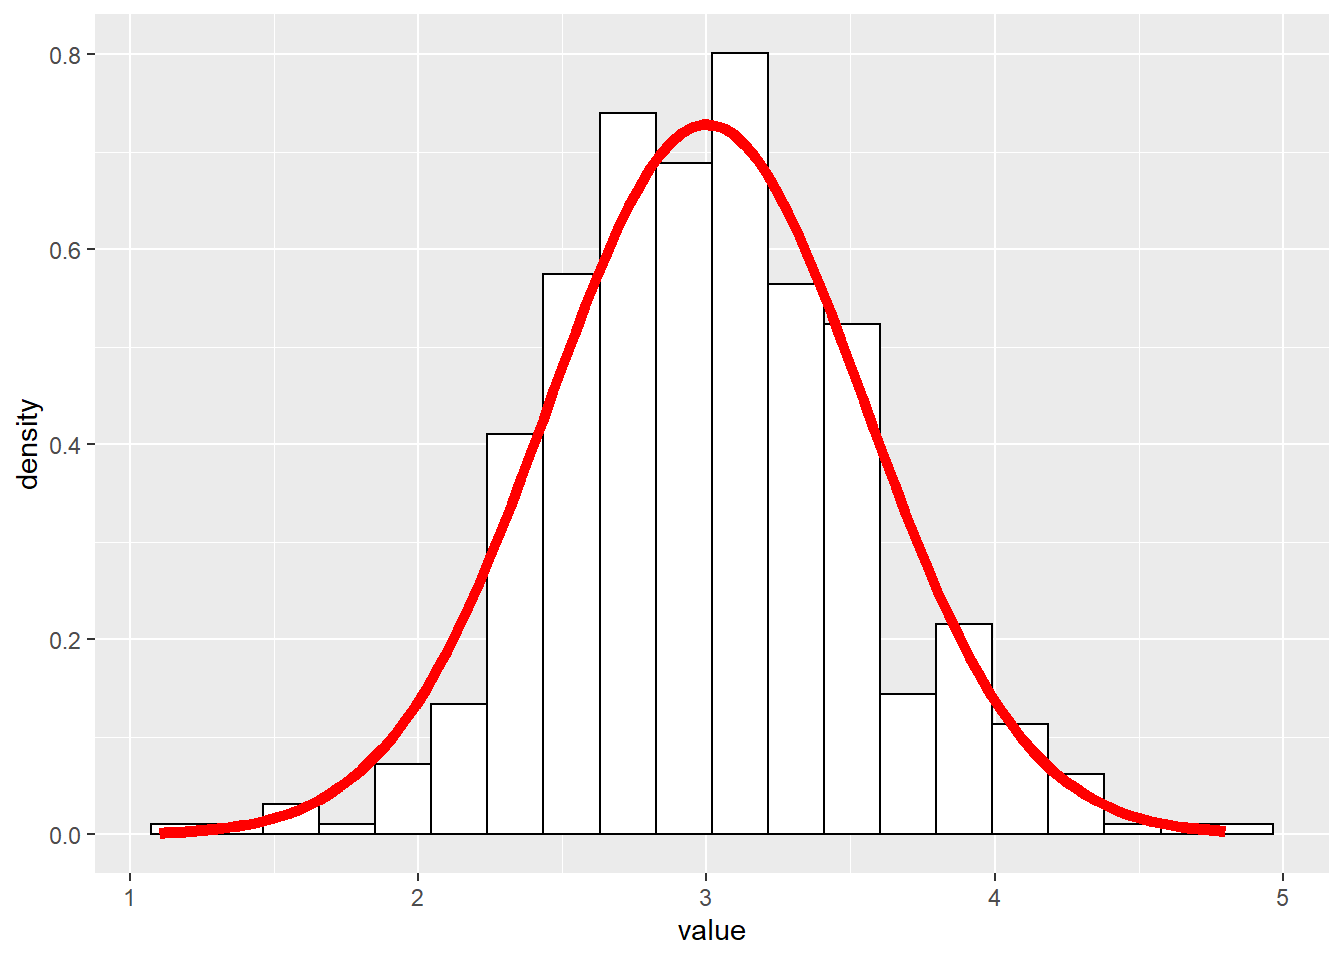
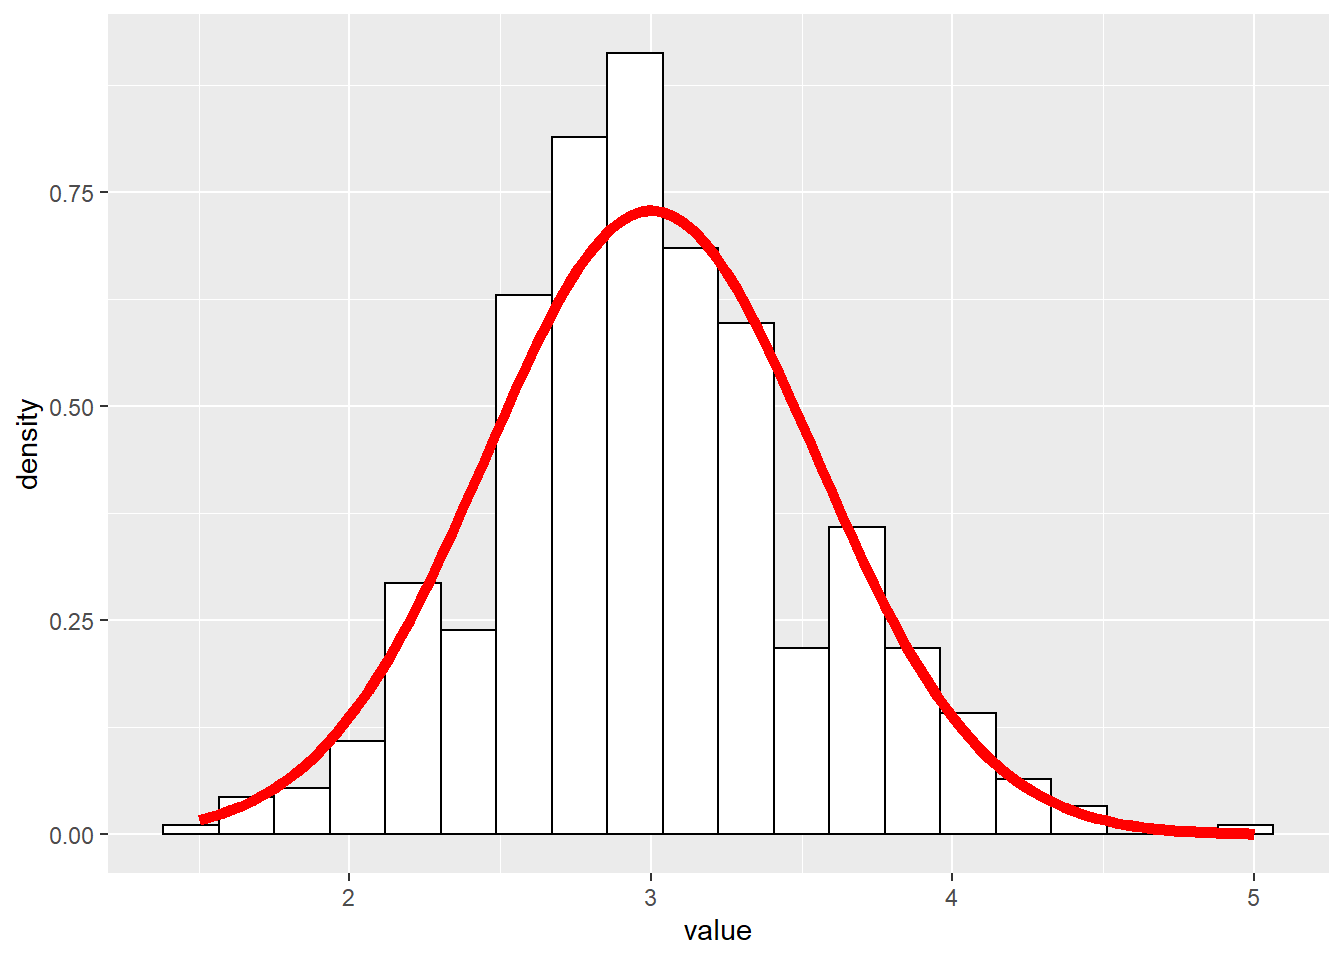
Finish CLT Blog

diff --git a/content/post/2020-02-05-central-limit-theorem.html b/content/post/2020-02-05-central-limit-theorem.html
@@ -21,16 +21,16 @@ p &lt;- ggplot(dat, aes(x = k, y = prob))
 p + geom_segment(aes(xend = k, yend = 0),size=3) + ylab(&#39;p(k)&#39;)</code></pre>
 <p><img src="/post/2020-02-05-central-limit-theorem_files/figure-html/unnamed-chunk-1-1.png" width="672" /></p>
 <p>Here we can see that <span class="math inline">\(X\)</span> is clearly not Normally distributed, in fact no matter what we do to <span class="math inline">\(X\)</span> it will NEVER be Normally distributed, it will be Poisson distributed with <span class="math inline">\(\lambda=3\)</span>. What can change, though, is the distribution of <span class="math inline">\(\bar{X}\)</span>. This is probably confusing because we never actually observe more than one <span class="math inline">\(\bar{X}\)</span>, so there’s not really a way to check this in a real experiment. However, we can do the following:</p>
-<p>1.) Simulate <span class="math inline">\(X_1,X_2,\cdots,X_{10}\)</span> from a Poisson (3) distribution. Note that here <span class="math inline">\(n=10\)</span>.
-2.) Calculate <span class="math inline">\(\bar{X}\)</span> from those 10 values.
-3.) Repeat this 500 times and plot a histogram to get a feel for the distribution of <span class="math inline">\(\bar{X}\)</span>
-4.) Overlay a Normal distribution on top of the histogram of <span class="math inline">\(\bar{X}\)</span> values.</p>
+<p>1.) Simulate <span class="math inline">\(X_1,X_2,\cdots,X_{10}\)</span> from a Poisson (3) distribution. Note that here <span class="math inline">\(n=10\)</span>.</p>
+<p>2.) Calculate <span class="math inline">\(\bar{X}\)</span> from those 10 values.</p>
+<p>3.) Repeat this 500 times and plot a histogram to get a feel for the distribution of <span class="math inline">\(\bar{X}\)</span></p>
+<p>4.) Overlay a Normal distribution on top of the histogram of <span class="math inline">\(\bar{X}\)</span> values.</p>
 <pre class="r"><code>M&lt;-500
 n=10
 x.bars&lt;-data.frame(trial=seq(1,M),value=NA)
 for(j in 1:M){
   data&lt;-rpois(n,3)
-  x.bars[j,]=mean(data)
+  x.bars[j,]$value=mean(data)
 }
 
 x.bars %&gt;% ggplot(aes(x=value))+ geom_histogram(aes(y =..density..),
@@ -44,7 +44,7 @@ n=30
 x.bars&lt;-data.frame(trial=seq(1,M),value=NA)
 for(j in 1:M){
   data&lt;-rpois(n,3)
-  x.bars[j,]=mean(data)
+  x.bars[j,]$value=mean(data)
 }
 
 x.bars %&gt;% ggplot(aes(x=value))+ geom_histogram(aes(y =..density..),
@@ -52,4 +52,98 @@ x.bars %&gt;% ggplot(aes(x=value))+ geom_histogram(aes(y =..density..),
                    fill = &quot;white&quot;,bins=20)+
                     stat_function(fun = dnorm, args = list(mean = 3, sd = sqrt(3)/sqrt(n)),color=&quot;red&quot;,size=2)</code></pre>
 <p><img src="/post/2020-02-05-central-limit-theorem_files/figure-html/unnamed-chunk-3-1.png" width="672" /></p>
-<p>So in this case it looks like <span class="math inline">\(n=10\)</span> might be big enough for the CLT to work.</p>
+<p>So in this case it looks like <span class="math inline">\(n=10\)</span> might work, but certainly we don’t lose anything by using <span class="math inline">\(n=30\)</span>.</p>
+<p>Now let’s consider another case where <span class="math inline">\(X_i\)</span> has a <a href="https://en.wikipedia.org/wiki/Log-normal_distribution">log-normal</a> distribution with <span class="math inline">\(\mu=0\)</span>, and <span class="math inline">\(\sigma^2=1\)</span>. It can be shown that the mean of this distribution is <span class="math inline">\(\exp(1/2)\approx 1.65\)</span> and the variance is <span class="math inline">\((\exp(1)-1)\exp(1)\approx 4.67\)</span>.</p>
+<pre class="r"><code>M&lt;-500
+n=10
+mu=0
+sd=1
+x.bars&lt;-data.frame(trial=seq(1,M),value=NA)
+for(j in 1:M){
+  data&lt;-exp(rnorm(n,mu,sd))
+  x.bars[j,]$value=mean(data)
+}
+
+mu.xbar=exp(mu+sd^2/2)
+var=(exp(sd^2)-1)*exp(2*mu+sd^2)
+x.bars %&gt;% ggplot(aes(x=value))+ geom_histogram(aes(y =..density..),
+                   colour = &quot;black&quot;, 
+                   fill = &quot;white&quot;,bins=20)+
+                    stat_function(fun = dnorm, args = list(mean = mu.xbar, sd=sqrt(var)/sqrt(n)),color=&quot;red&quot;,size=2)+
+  xlim(0,5)</code></pre>
+<p><img src="/post/2020-02-05-central-limit-theorem_files/figure-html/unnamed-chunk-4-1.png" width="672" /></p>
+<p>Here we see potentially some issues</p>
+<pre class="r"><code>M&lt;-500
+n=30
+mu=0
+sd=1
+x.bars&lt;-data.frame(trial=seq(1,M),value=NA)
+for(j in 1:M){
+  data&lt;-exp(rnorm(n,mu,sd))
+  x.bars[j,]$value=mean(data)
+}
+
+mu.xbar=exp(mu+sd^2/2)
+var=(exp(sd^2)-1)*exp(2*mu+sd^2)
+x.bars %&gt;% ggplot(aes(x=value))+ geom_histogram(aes(y =..density..),
+                   colour = &quot;black&quot;, 
+                   fill = &quot;white&quot;,bins=20)+
+                    stat_function(fun = dnorm, args = list(mean = mu.xbar, sd=sqrt(var)/sqrt(n)),color=&quot;red&quot;,size=2)+
+  xlim(0,5)</code></pre>
+<p><img src="/post/2020-02-05-central-limit-theorem_files/figure-html/unnamed-chunk-5-1.png" width="672" /></p>
+<p>By <span class="math inline">\(n=30\)</span> they are largely gone. However, let’s consider a Log-Normal with <span class="math inline">\(\sigma=2\)</span></p>
+<pre class="r"><code>M&lt;-500
+n=30
+mu=0
+sd=2
+x.bars&lt;-data.frame(trial=seq(1,M),value=NA)
+for(j in 1:M){
+  data&lt;-exp(rnorm(n,mu,sd))
+  x.bars[j,]$value=mean(data)
+}
+
+mu.xbar=exp(mu+sd^2/2)
+var=(exp(sd^2)-1)*exp(2*mu+sd^2)
+x.bars %&gt;% ggplot(aes(x=value))+ geom_histogram(aes(y =..density..),
+                   colour = &quot;black&quot;, 
+                   fill = &quot;white&quot;,bins=20)+
+                    stat_function(fun = dnorm, args = list(mean = mu.xbar, sd=sqrt(var)/sqrt(n)),color=&quot;red&quot;,size=2)</code></pre>
+<p><img src="/post/2020-02-05-central-limit-theorem_files/figure-html/unnamed-chunk-6-1.png" width="672" /></p>
+<p>For <span class="math inline">\(n=30\)</span> this still doesn’t look so good. How about <span class="math inline">\(n=50\)</span>?</p>
+<pre class="r"><code>M&lt;-500
+n=50
+mu=0
+sd=2
+x.bars&lt;-data.frame(trial=seq(1,M),value=NA)
+for(j in 1:M){
+  data&lt;-exp(rnorm(n,mu,sd))
+  x.bars[j,]$value=mean(data)
+}
+
+mu.xbar=exp(mu+sd^2/2)
+var=(exp(sd^2)-1)*exp(2*mu+sd^2)
+x.bars %&gt;% ggplot(aes(x=value))+ geom_histogram(aes(y =..density..),
+                   colour = &quot;black&quot;, 
+                   fill = &quot;white&quot;,bins=20)+
+                    stat_function(fun = dnorm, args = list(mean = mu.xbar, sd=sqrt(var)/sqrt(n)),color=&quot;red&quot;,size=2)</code></pre>
+<p><img src="/post/2020-02-05-central-limit-theorem_files/figure-html/unnamed-chunk-7-1.png" width="672" /></p>
+<p><span class="math inline">\(n=100?\)</span></p>
+<pre class="r"><code>M&lt;-500
+n=100
+mu=0
+sd=2
+x.bars&lt;-data.frame(trial=seq(1,M),value=NA)
+for(j in 1:M){
+  data&lt;-exp(rnorm(n,mu,sd))
+  x.bars[j,]$value=mean(data)
+}
+
+mu.xbar=exp(mu+sd^2/2)
+var=(exp(sd^2)-1)*exp(2*mu+sd^2)
+x.bars %&gt;% ggplot(aes(x=value))+ geom_histogram(aes(y =..density..),
+                   colour = &quot;black&quot;, 
+                   fill = &quot;white&quot;,bins=20)+
+                    stat_function(fun = dnorm, args = list(mean = mu.xbar, sd=sqrt(var)/sqrt(n)),color=&quot;red&quot;,size=2)</code></pre>
+<p><img src="/post/2020-02-05-central-limit-theorem_files/figure-html/unnamed-chunk-8-1.png" width="672" /></p>
+<p>The bottom line is, sometimes, if <span class="math inline">\(X_i\)</span> has a distribution that has ‘nice’ properties, then we are ok with small <span class="math inline">\(n\)</span>. For other distributions, <span class="math inline">\(n\)</span> may have to be huge in order to invoke the CLT.</p>
+<p>The second important point for the CLT is that while it’s primarily thought of as a tool to find the distribution of <span class="math inline">\(\bar{X}\)</span> we can actually use it in much more general settings. In MA476 you will learn about Maximum Likelihood Estimators (MLEs). These are logical ways to estimate any parameter (see previous blog post on parameters). In this case, as long as certain conditions are met (which are most of the time) the CLT says that <span class="math inline">\(\sqrt{n}(\hat{\theta}-\theta)\to N(0,\frac{1}{I_{1}(\theta)})\)</span> where <span class="math inline">\(\hat{\theta}\)</span> is the MLE and <span class="math inline">\(I_{1}(\theta)\)</span> is the Fisher’s Information at <span class="math inline">\(\theta\)</span>. What this means is, for many cases when <span class="math inline">\(n\)</span> is big enough we have approximate Normality. However, we have to clearly know what is meant by big enough…</p>
